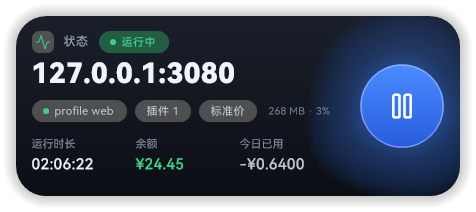
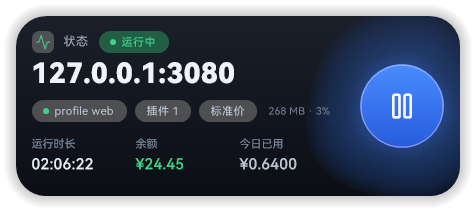
refactor: 工程改名 DshOrbit，修正「今日已用」的负号
- DshStatusWidget.csproj → DshOrbit.csproj，命名空间 DshStatusWidget → DshOrbit
- 同步更新 tests/tools 的 RootNamespace 与源码引用
- fetch-lucide.ps1 生成的 LucideData 也改用 DshOrbit 命名空间
- 「今日已用」不再显示为 -¥x（那是"支出"的写法，读起来像负数收入），改为 ¥x
- 重建预览图

Changed region(s): [[0.5, 0.7358, 0.6471, 0.8208]]

diff --git a/WidgetForm.cs b/WidgetForm.cs
@@ -5,7 +5,7 @@ using System.Drawing.Text;
 using System.Runtime.InteropServices;
 using System.Windows.Forms;
 
-namespace DshStatusWidget;
+namespace DshOrbit;
 
 /// <summary>桌面挂件本体：不透明圆角卡片，逐像素透明窗口，锁定穿透时在光标处开「探照灯」。</summary>
 internal sealed class WidgetForm : Form
@@ -1081,7 +1081,7 @@ internal sealed class WidgetForm : Form
             ("运行时长", _status.Uptime is { } up ? FormatUptime(up) : "—", Color.FromArgb(232, 238, 246)),
             ("余额", _status.Balance is { } b ? $"¥{b:0.00}" : "—",
                 _status.Balance is not null ? Color.FromArgb(63, 208, 138) : Color.FromArgb(120, 132, 152)),
-            ("今日已用", _status.SpentToday is { } s && s > 0 ? $"-¥{s:0.0000}" : "¥0.0000",
+            ("今日已用", _status.SpentToday is { } s && s > 0 ? $"¥{s:0.0000}" : "¥0.0000",
                 Color.FromArgb(188, 197, 212)),
         };
 

diff --git a/ShellStore.cs b/ShellStore.cs
@@ -1,7 +1,7 @@
 using System.Text.Json;
 using System.Text.Json.Serialization;
 
-namespace DshStatusWidget;
+namespace DshOrbit;
 
 /// <summary>一个搜索引擎：URL 模板里的 {q} 会被替换成关键词。</summary>
 internal sealed class SearchEngine
@@ -46,7 +46,7 @@ internal sealed class ShellState
     }
 }
 
-/// <summary>读写 <c>%LOCALAPPDATA%\DshStatusWidget\shell.json</c>。</summary>
+/// <summary>读写 <c>%LOCALAPPDATA%\DSH-Orbit\shell.json</c>。</summary>
 internal static class ShellStore
 {
     private static readonly JsonSerializerOptions Options = new()

diff --git a/AutoStart.cs b/AutoStart.cs
@@ -1,6 +1,6 @@
 using Microsoft.Win32;
 
-namespace DshStatusWidget;
+namespace DshOrbit;
 
 /// <summary>
 /// 开机自启：写 HKCU 的 Run 键。
@@ -14,7 +14,7 @@ internal static class AutoStart
     private const string FullAutoArgument = "--autostart-full";
 
     public static string ExecutablePath =>
-        Environment.ProcessPath ?? Path.Combine(AppContext.BaseDirectory, "DshStatusWidget.exe");
+        Environment.ProcessPath ?? Path.Combine(AppContext.BaseDirectory, "DSH-Orbit.exe");
 
     public static AutoStartMode GetMode()
     {

diff --git a/Models.cs b/Models.cs
@@ -2,7 +2,7 @@ using System.Drawing;
 using System.Text.Json;
 using System.Text.Json.Serialization;
 
-namespace DshStatusWidget;
+namespace DshOrbit;
 
 internal enum DshState
 {
@@ -50,7 +50,7 @@ internal sealed class StatusSnapshot
     };
 }
 
-/// <summary>挂件配置，保存在 %LOCALAPPDATA%\DshStatusWidget\config.json。</summary>
+/// <summary>挂件配置，保存在 %LOCALAPPDATA%\DSH-Orbit\config.json。</summary>
 internal sealed class WidgetConfig
 {
     public int X { get; set; } = -1;

diff --git a/DshServices.cs b/DshServices.cs
@@ -4,7 +4,7 @@ using System.Text;
 using System.Text.Json;
 using System.Text.RegularExpressions;
 
-namespace DshStatusWidget;
+namespace DshOrbit;
 
 /// <summary>发现到的一个 dsh web 实例（监听端口的真实拥有者是内部 node 进程）。</summary>
 internal sealed record DshInstance(int Port, int ListenerPid, DateTime StartedAt);

diff --git a/LayeredSurface.cs b/LayeredSurface.cs
@@ -2,7 +2,7 @@ using System.Drawing;
 using System.Drawing.Imaging;
 using System.Runtime.InteropServices;
 
-namespace DshStatusWidget;
+namespace DshOrbit;
 
 /// <summary>把一张 ARGB 位图以逐像素透明的方式推到窗口上（UpdateLayeredWindow）。</summary>
 internal sealed class LayeredSurface : IDisposable

diff --git a/WidgetApp.cs b/WidgetApp.cs
@@ -2,7 +2,7 @@ using System.Diagnostics;
 using System.Drawing;
 using System.Windows.Forms;
 
-namespace DshStatusWidget;
+namespace DshOrbit;
 
 /// <summary>挂件应用：托盘、定时刷新、进程/余额/插件/外壳的协调者。</summary>
 internal sealed class WidgetApp : ApplicationContext

diff --git a/TrayMenuForm.cs b/TrayMenuForm.cs
@@ -4,7 +4,7 @@ using System.Drawing.Imaging;
 using System.Drawing.Text;
 using System.Windows.Forms;
 
-namespace DshStatusWidget;
+namespace DshOrbit;
 
 /// <summary>托盘右键菜单：自绘卡片式弹层，和挂件同一套设计语言。</summary>
 internal sealed class TrayMenuForm : Form

diff --git a/Balance.cs b/Balance.cs
@@ -3,7 +3,7 @@ using System.Net.Http;
 using System.Text.Json;
 using System.Text.RegularExpressions;
 
-namespace DshStatusWidget;
+namespace DshOrbit;
 
 /// <summary>DeepSeek 余额 + 按余额下降累计的“今日已用”。</summary>
 internal sealed class BalanceService : IDisposable

diff --git a/IconFactory.cs b/IconFactory.cs
@@ -3,7 +3,7 @@ using System.Drawing.Drawing2D;
 using System.Runtime.InteropServices;
 using System.Windows.Forms;
 
-namespace DshStatusWidget;
+namespace DshOrbit;
 
 /// <summary>用代码画一个托盘图标：深色圆角方块 + 状态点。</summary>
 internal static class IconFactory

diff --git a/tests/Render/Program.cs b/tests/Render/Program.cs
@@ -2,7 +2,7 @@ using System.Drawing;
 using System.Drawing.Imaging;
 using System.Windows.Forms;
 
-namespace DshStatusWidget;
+namespace DshOrbit;
 
 /// <summary>用真实的 WidgetForm 绘制逻辑离屏渲染两种状态，产出文档截图。</summary>
 internal static class Program

diff --git a/LucideData.cs b/LucideData.cs
@@ -2,7 +2,7 @@
 // 由 tools/fetch-lucide.ps1 生成：lucide-static（ISC License）官方 SVG 的几何数据。
 // 不要手改，改脚本后重跑。
 // </auto-generated>
-namespace DshStatusWidget;
+namespace DshOrbit;
 
 internal static partial class LucideData
 {
